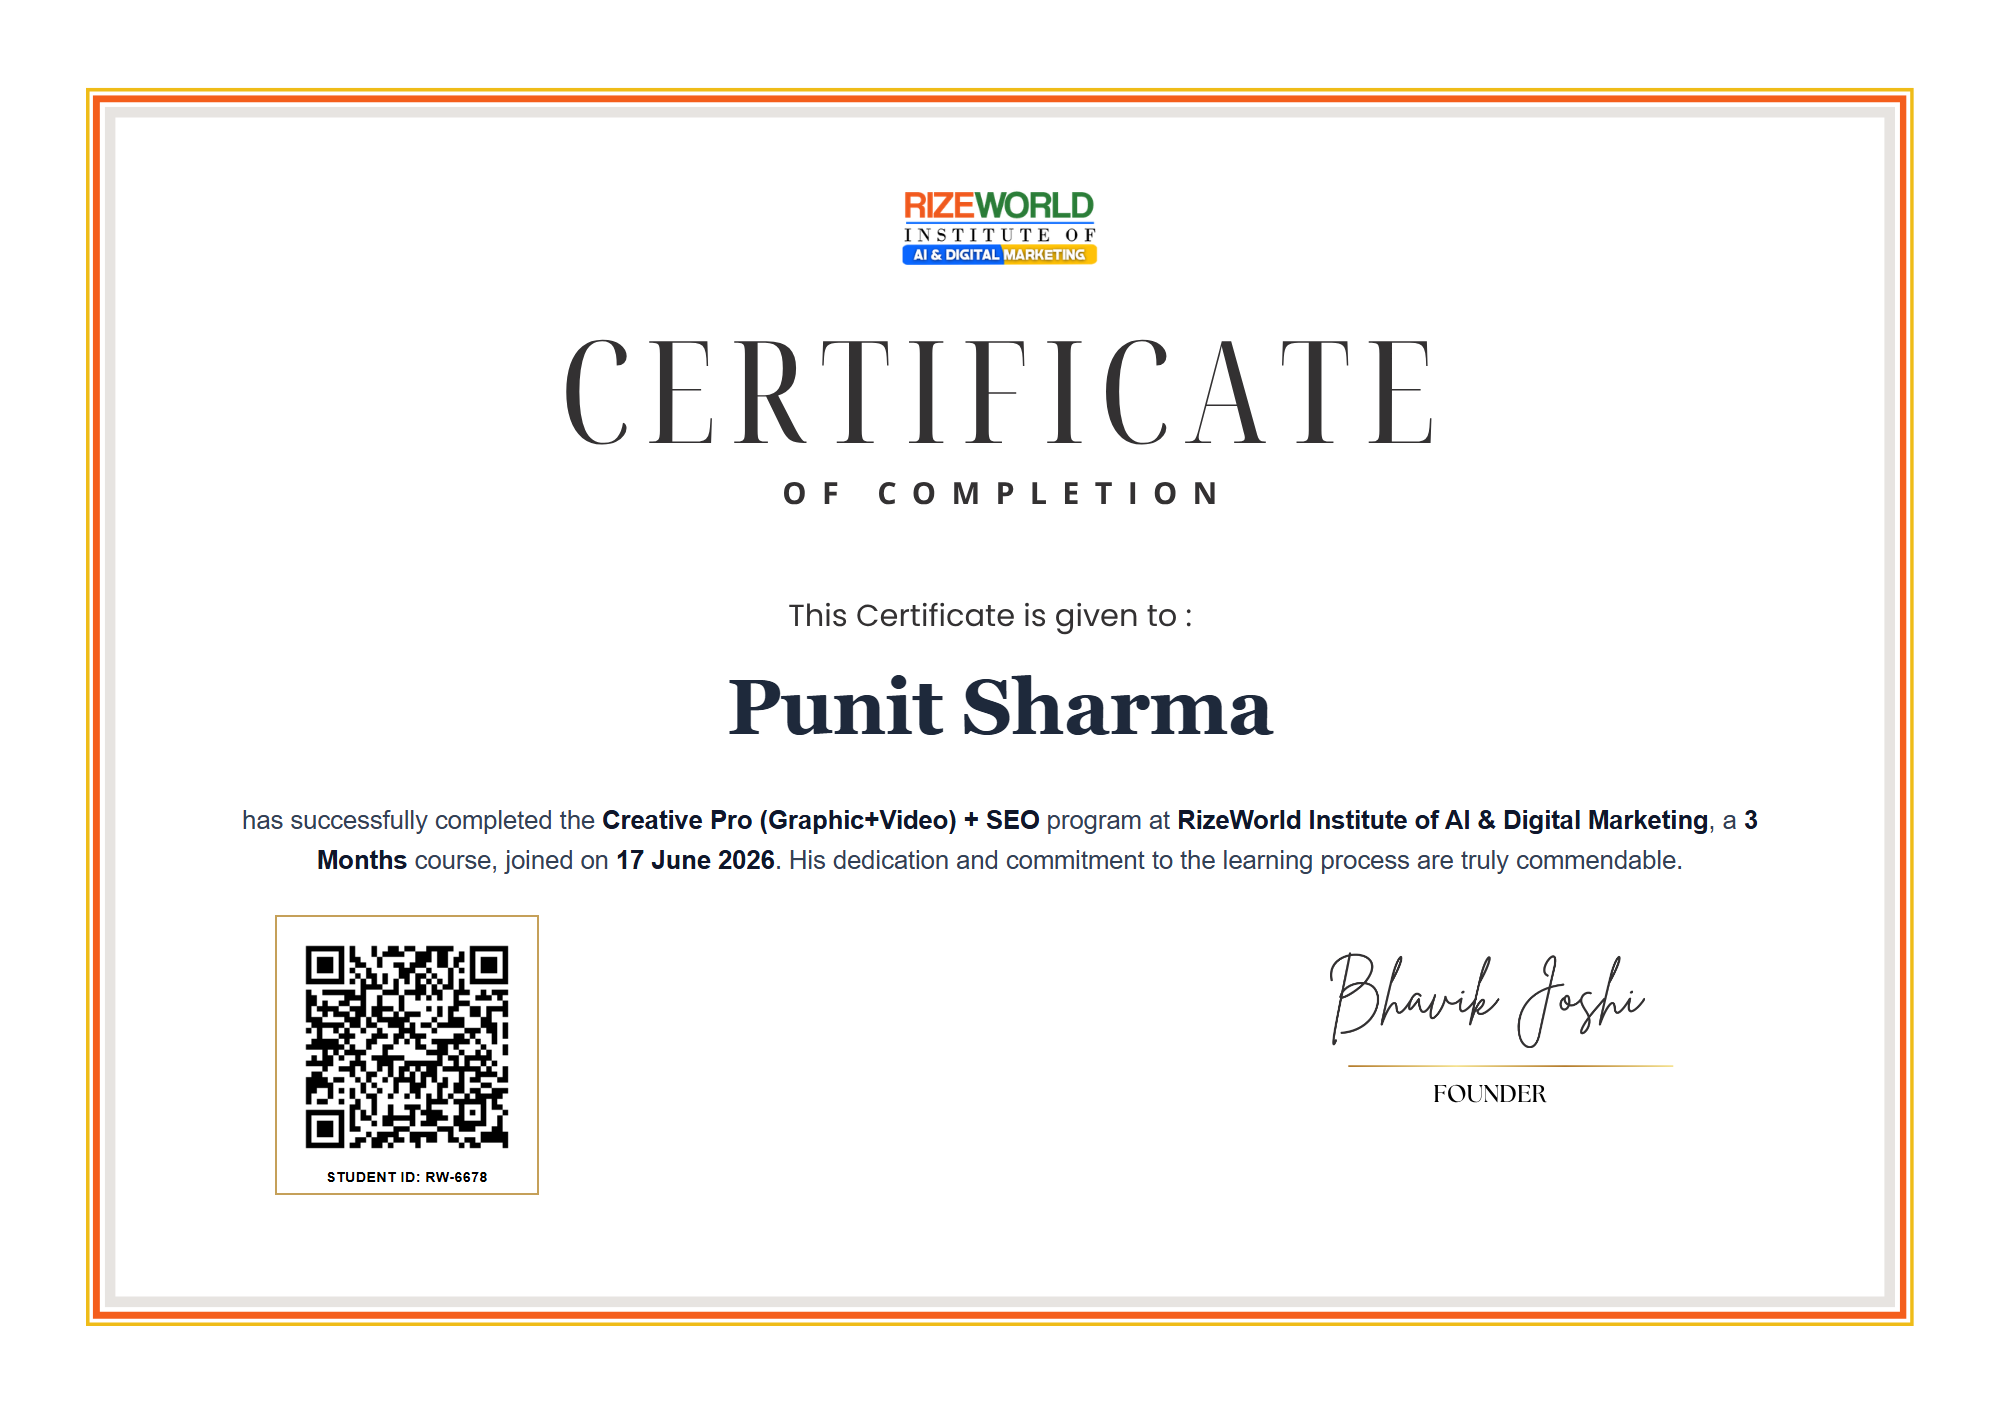
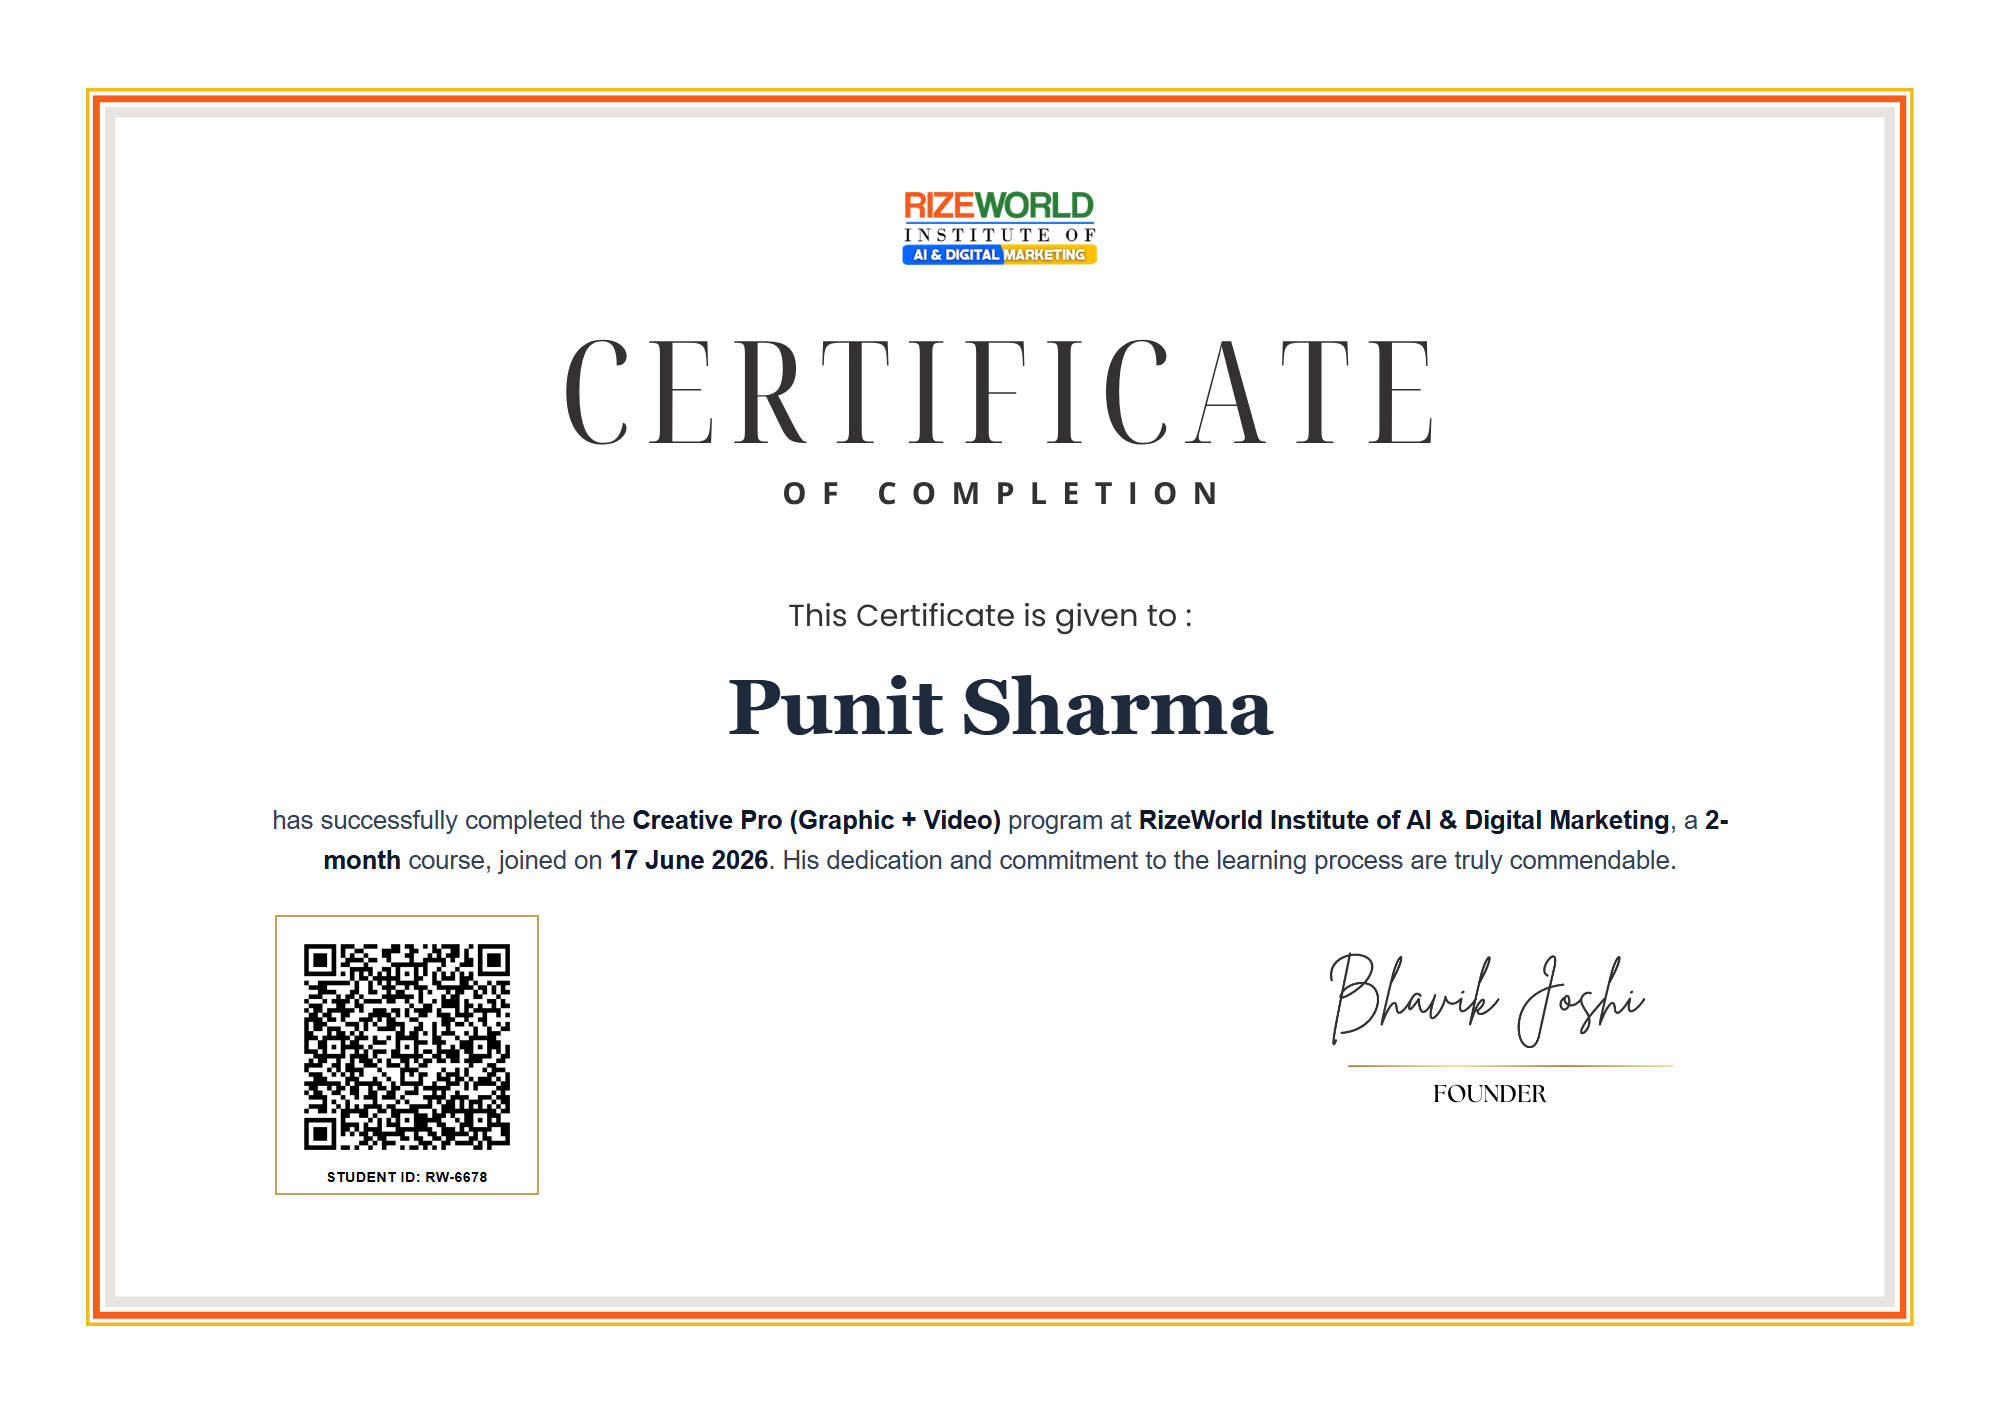
feat(certificates): generate separate certificates per course with accurate durations and remove duplicate files

Changed region(s): [[0.124, 0.5601, 0.868, 0.6223], [0.155, 0.6535, 0.279, 0.8091]]

diff --git a/backend/generate_all_certificates.js b/backend/generate_all_certificates.js
@@ -30,26 +30,69 @@ function getPronoun(name) {
   return 'His';
 }
 
-// Clean course display name
-function getCourseName(student) {
-  if (Array.isArray(student.selected_course_name) && student.selected_course_name.length > 0) {
-    return student.selected_course_name.join(' + ');
+// Extract distinct course list for student
+function getStudentCourseList(student) {
+  const rawList = [];
+  if (Array.isArray(student.selected_course_name)) {
+    rawList.push(...student.selected_course_name);
+  } else if (student.selected_course_name) {
+    rawList.push(student.selected_course_name);
   }
-  if (student.selected_course_name && typeof student.selected_course_name === 'string') {
-    return student.selected_course_name;
-  }
-  if (student.admissions && student.admissions.length > 0 && student.admissions[0].courses && student.admissions[0].courses.length > 0) {
-    return student.admissions[0].courses.join(' + ');
-  }
-  return 'Creative Pro (Graphic + Video)';
-}
 
-function getDuration(student) {
-  if (student.course_duration) return student.course_duration;
-  if (student.admissions && student.admissions[0] && student.admissions[0].courseDuration) {
-    return student.admissions[0].courseDuration;
+  if (student.admissions && student.admissions.length > 0) {
+    for (const adm of student.admissions) {
+      if (Array.isArray(adm.courses)) {
+        rawList.push(...adm.courses);
+      }
+    }
   }
-  return '3-month';
+
+  // Deduplicate and normalize
+  const courses = [];
+  for (const item of rawList) {
+    if (!item) continue;
+    const trimmed = item.trim();
+    if (!courses.includes(trimmed)) courses.push(trimmed);
+  }
+
+  if (courses.length === 0) {
+    courses.push('Creative Pro (Graphic + Video)');
+  }
+
+  return courses.map(c => {
+    const lc = c.toLowerCase();
+    let title = c;
+    let slug = 'Course';
+    let duration = '2-month';
+
+    if (lc.includes('seo') && !lc.includes('marketing') && !lc.includes('smo')) {
+      title = 'SEO (Search Engine Optimization)';
+      slug = 'SEO';
+      duration = '1-month';
+    } else if (lc.includes('creative pro')) {
+      title = 'Creative Pro (Graphic + Video)';
+      slug = 'Creative_Pro';
+      duration = '2-month';
+    } else if (lc.includes('marketing pro')) {
+      title = 'Marketing Pro (SEO + SMO + Performance)';
+      slug = 'Marketing_Pro';
+      duration = '2-month';
+    } else if (lc.includes('master course')) {
+      title = 'Master Course Program in AI & Digital Marketing';
+      slug = 'Master_Course';
+      duration = '3-month';
+    } else if (lc.includes('web development')) {
+      title = 'Web Development';
+      slug = 'Web_Development';
+      duration = '3-month';
+    } else {
+      title = c;
+      slug = c.replace(/[^a-zA-Z0-9]/g, '_');
+      duration = '2-month';
+    }
+
+    return { title, slug, duration };
+  });
 }
 
 function getStartDate(student) {
@@ -77,9 +120,20 @@ async function run() {
   const dirMain = 'd:/desktop/Aman/rizeworld institute/rizeworld institute/rizeworld institute/frontend-main/public/certificates';
   const dirBackend = 'd:/desktop/Aman/rizeworld institute/rizeworld institute/rizeworld institute/backend/public/uploads/certificates';
 
+  // Clean old/duplicate certificate files
   [dirAdmin, dirMain, dirBackend].forEach(d => {
-    if (!fs.existsSync(d)) fs.mkdirSync(d, { recursive: true });
+    if (fs.existsSync(d)) {
+      const existing = fs.readdirSync(d);
+      for (const f of existing) {
+        if (f.startsWith('Certificate_') && f.endsWith('.png')) {
+          fs.unlinkSync(path.join(d, f));
+        }
+      }
+    } else {
+      fs.mkdirSync(d, { recursive: true });
+    }
   });
+  console.log('Cleaned old and duplicate certificates.');
 
   const students = await student_model.find({});
   console.log(`Found ${students.length} students to generate certificates for.`);
@@ -87,25 +141,33 @@ async function run() {
   const tempHtmlPath = path.join(__dirname, 'temp_batch_cert.html');
   const tempPngPath = path.join(__dirname, 'temp_batch_cert.png');
 
+  let totalGeneratedCount = 0;
+
   for (let i = 0; i < students.length; i++) {
     const s = students[i];
-    const studentId = s.student_ID || `RW-${Date.now()}`;
+    const studentId = (s.student_ID || `RW-${Date.now()}`).trim();
     const studentName = (s.student_name || 'Student').trim();
-    const course = getCourseName(s);
-    const duration = getDuration(s);
+    const courseList = getStudentCourseList(s);
     const date = getStartDate(s);
     const pronoun = getPronoun(studentName);
 
-    console.log(`\n[${i + 1}/${students.length}] Generating certificate for: ${studentName} (${studentId})...`);
+    console.log(`\n[${i + 1}/${students.length}] ${studentName} (${studentId}) has ${courseList.length} course(s):`);
 
-    // Generate dynamic QR code
-    const qrDataUrl = await QRCode.toDataURL(`https://institute-rize.onrender.com/download-certificate?id=${encodeURIComponent(studentId)}`, {
-      errorCorrectionLevel: 'M',
-      margin: 2,
-      color: { dark: '#000000', light: '#ffffff' }
-    });
+    const studentGeneratedCerts = [];
 
-    const htmlContent = `<!DOCTYPE html>
+    for (let cIdx = 0; cIdx < courseList.length; cIdx++) {
+      const courseObj = courseList[cIdx];
+      console.log(`   -> Generating certificate for course: ${courseObj.title} (${courseObj.duration})...`);
+
+      // Dynamic QR code with id and course query
+      const targetUrl = `https://institute-rize.onrender.com/download-certificate?id=${encodeURIComponent(studentId)}&course=${encodeURIComponent(courseObj.title)}`;
+      const qrDataUrl = await QRCode.toDataURL(targetUrl, {
+        errorCorrectionLevel: 'M',
+        margin: 2,
+        color: { dark: '#000000', light: '#ffffff' }
+      });
+
+      const htmlContent = `<!DOCTYPE html>
 <html lang="en">
 <head>
   <meta charset="UTF-8">
@@ -231,7 +293,7 @@ async function run() {
       letter-spacing: 0.04em;
     }
 
-    /* New Signature (bottom-right) */
+    /* New Signature (bottom-right shifted left) */
     .sign-img {
       position: absolute;
       top: 952px;
@@ -251,7 +313,7 @@ async function run() {
   <div class="content-layer">
     <div class="student-name">${studentName}</div>
     <p class="description-text">
-      has successfully completed the <strong>${course}</strong> program at <strong>RizeWorld Institute of AI & Digital Marketing</strong>, a <strong>${duration}</strong> course, joined on <strong>${date}</strong>. ${pronoun} dedication and commitment to the learning process are truly commendable.
+      has successfully completed the <strong>${courseObj.title}</strong> program at <strong>RizeWorld Institute of AI & Digital Marketing</strong>, a <strong>${courseObj.duration}</strong> course, joined on <strong>${date}</strong>. ${pronoun} dedication and commitment to the learning process are truly commendable.
     </p>
 
     <div class="qr-card">
@@ -264,66 +326,61 @@ async function run() {
 </body>
 </html>`;
 
-    fs.writeFileSync(tempHtmlPath, htmlContent);
+      fs.writeFileSync(tempHtmlPath, htmlContent);
 
-    const cmd = `"${chromePath}" --headless --disable-gpu --screenshot="${tempPngPath}" --window-size=2000,1414 --hide-scrollbars "file:///${tempHtmlPath.replace(/\\\\/g, '/')}"`;
-    execSync(cmd);
+      const cmd = `"${chromePath}" --headless --disable-gpu --screenshot="${tempPngPath}" --window-size=2000,1414 --hide-scrollbars "file:///${tempHtmlPath.replace(/\\/g, '/')}"`;
+      execSync(cmd);
 
-    // Save to all target locations
-    const cleanId = studentId.replace(/[^a-zA-Z0-9-_]/g, '_');
-    const safeName = studentName.replace(/[^a-zA-Z0-9-_]/g, '_');
-    const fileName = `Certificate_${cleanId}_${safeName}.png`;
-    const simpleIdFileName = `Certificate_${cleanId}.png`;
+      // Unique file name per course
+      const cleanId = studentId.replace(/[^a-zA-Z0-9-_]/g, '_');
+      const safeName = studentName.replace(/[^a-zA-Z0-9-_]/g, '_');
+      const fileName = `Certificate_${cleanId}_${safeName}_${courseObj.slug}.png`;
 
-    const outPathAdmin = path.join(dirAdmin, fileName);
-    const outPathAdminSimple = path.join(dirAdmin, simpleIdFileName);
-    const outPathMain = path.join(dirMain, fileName);
-    const outPathMainSimple = path.join(dirMain, simpleIdFileName);
-    const outPathBackend = path.join(dirBackend, fileName);
-    const outPathBackendSimple = path.join(dirBackend, simpleIdFileName);
+      const outPathAdmin = path.join(dirAdmin, fileName);
+      const outPathMain = path.join(dirMain, fileName);
+      const outPathBackend = path.join(dirBackend, fileName);
 
-    const renderedBuffer = fs.readFileSync(tempPngPath);
+      const renderedBuffer = fs.readFileSync(tempPngPath);
 
-    fs.writeFileSync(outPathAdmin, renderedBuffer);
-    fs.writeFileSync(outPathAdminSimple, renderedBuffer);
-    fs.writeFileSync(outPathMain, renderedBuffer);
-    fs.writeFileSync(outPathMainSimple, renderedBuffer);
-    fs.writeFileSync(outPathBackend, renderedBuffer);
-    fs.writeFileSync(outPathBackendSimple, renderedBuffer);
+      fs.writeFileSync(outPathAdmin, renderedBuffer);
+      fs.writeFileSync(outPathMain, renderedBuffer);
+      fs.writeFileSync(outPathBackend, renderedBuffer);
 
-    // Update student in database
-    const certPublicUrl = `/certificates/${fileName}`;
-    s.certificate_photo = certPublicUrl;
-    if (!s.certificates) s.certificates = [];
-    s.certificates = [{
-      course_name: course,
-      courseName: course,
-      certificate_path: certPublicUrl,
-      certificatePath: certPublicUrl,
-      issued_at: new Date(),
-      issuedAt: new Date()
-    }];
-    await s.save();
+      const certPublicUrl = `/certificates/${fileName}`;
+      studentGeneratedCerts.push({
+        course_name: courseObj.title,
+        courseName: courseObj.title,
+        certificate_path: certPublicUrl,
+        certificatePath: certPublicUrl,
+        issued_at: new Date(),
+        issuedAt: new Date()
+      });
 
-    console.log(`✓ Saved certificate to:`);
-    console.log(`  - frontend-admin/public/certificates/${fileName}`);
-    console.log(`  - DB record updated with certificate_photo: ${certPublicUrl}`);
+      console.log(`      ✓ Saved: frontend-admin/public/certificates/${fileName}`);
+      totalGeneratedCount++;
 
-    // If Punit Sharma, also update COURSE CERTIFICATE.png in hero
-    if (studentId === 'RW-6678') {
-      const heroAdmin = 'd:/desktop/Aman/rizeworld institute/rizeworld institute/rizeworld institute/frontend-admin/public/hero/COURSE CERTIFICATE.png';
-      const heroMain = 'd:/desktop/Aman/rizeworld institute/rizeworld institute/rizeworld institute/frontend-main/public/hero/COURSE CERTIFICATE.png';
-      fs.writeFileSync(heroAdmin, renderedBuffer);
-      fs.writeFileSync(heroMain, renderedBuffer);
-      console.log(`  - Also updated default hero/COURSE CERTIFICATE.png for Punit Sharma`);
+      // If Punit Sharma and Creative Pro, also update hero/COURSE CERTIFICATE.png
+      if (studentId === 'RW-6678' && courseObj.slug === 'Creative_Pro') {
+        const heroAdmin = 'd:/desktop/Aman/rizeworld institute/rizeworld institute/rizeworld institute/frontend-admin/public/hero/COURSE CERTIFICATE.png';
+        const heroMain = 'd:/desktop/Aman/rizeworld institute/rizeworld institute/rizeworld institute/frontend-main/public/hero/COURSE CERTIFICATE.png';
+        fs.writeFileSync(heroAdmin, renderedBuffer);
+        fs.writeFileSync(heroMain, renderedBuffer);
+        console.log(`      ✓ Updated hero/COURSE CERTIFICATE.png for Punit Sharma`);
+      }
     }
+
+    // Update student in MongoDB
+    s.certificates = studentGeneratedCerts;
+    s.certificate_photo = studentGeneratedCerts[0].certificate_path;
+    await s.save();
+    console.log(`   ✓ DB updated with ${studentGeneratedCerts.length} certificates for ${studentName}`);
   }
 
   // Cleanup temp files
   if (fs.existsSync(tempHtmlPath)) fs.unlinkSync(tempHtmlPath);
   if (fs.existsSync(tempPngPath)) fs.unlinkSync(tempPngPath);
 
-  console.log('\nAll certificates successfully generated and saved into public folders!');
+  console.log(`\nComplete! Total ${totalGeneratedCount} individual course certificates generated and saved without duplicates!`);
   process.exit(0);
 }
 
